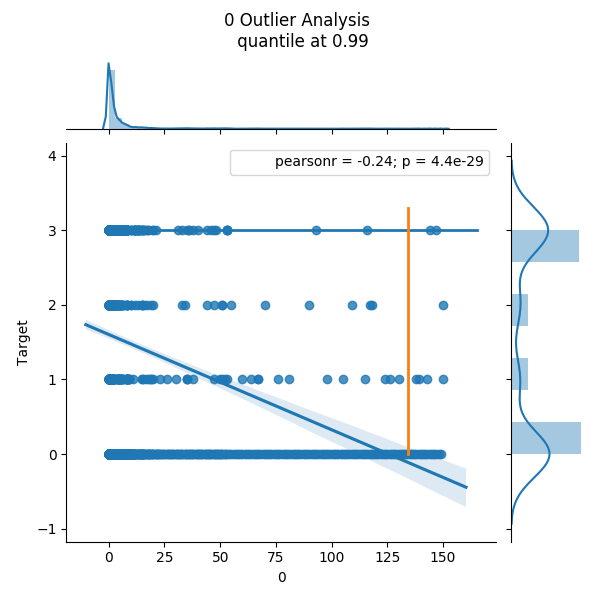
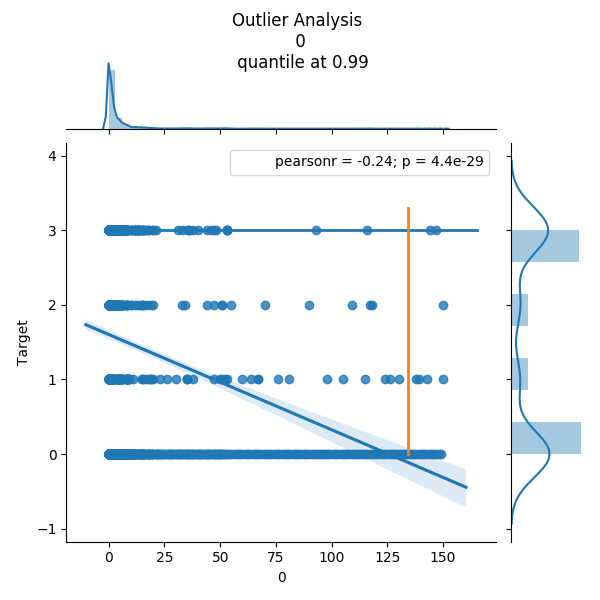
some vizu + click heatmap attempt + Total action per Activity --> Need to dry useless ActionPerAct columns

Changed region(s): [[0.36, 0.0, 0.63, 0.12]]

diff --git a/main.py b/main.py
@@ -43,17 +43,20 @@ EventCode : 4100 4110
 def div_zero(A, B) :
     return A/B if B else 0
 
-def get_insta_Data(instal_Data, test=False) :
+def get_insta_Data(instal_Data, Activities_list, test=False) :
     """
 
     """
     Assessments = []
     wincode = {'Mushroom Sorter (Assessment)':4100, 'Bird Measurer (Assessment)':4110, 'Cart Balancer (Assessment)':4100, 'Cauldron Filler (Assessment)':4100, 'Chest Sorter (Assessment)':4100}
     cols = {'installation_id':0, 'game_session':0, 'session_title':0, 'hour':0, 'total_spent':0, 0:0, 1:0, 2:0, 3:0, 'accum_accuracy':0, 'accum_accuracy_group':0,
-            'accum_correct':0, 'accum_incorrect':0, 'last_accuracyGroup': 0, 'Total_events':0, 'Total_Assessment':0, 'helped':0, 'timespentInstru':0, 'timespentTuto': 0, 'Total_Introskip':0,
-            'Total_Tuto_skipped':0, 'Incorr_feedback_Count':0, 'Incorr_feedback_Time': 0, 'Target':0, 'Replay_Click': 0}
+            'accum_correct':0, 'accum_incorrect':0, 'last_accuracyGroup': 0, 'Total_events':0, 'Total_Assessment':0, 'helped':0, 'timespentInstru':0, 'timespentTuto': 0, 'TotalQuit':0, 'Total_Introskip':0,
+            'Total_Tuto_skipped':0, 'Incorr_feedback_Count':0, 'Incorr_feedback_Time': 0, 'Replay_Click': 0, 'Scrub_A_Dub_avg':0, 'Target':0}
     Activity_count = {'Clip':0, 'Game':0, 'Activity':0, 'Assessment':0}
     AssessmentsTaken = {'Mushroom Sorter (Assessment)':0, 'Bird Measurer (Assessment)':0, 'Cart Balancer (Assessment)':0, 'Cauldron Filler (Assessment)':0, 'Chest Sorter (Assessment)':0}
+    TimePerRound = dict.fromkeys([('RTime_' + act[0:4]) for act in Activities_list], 0)
+    ActionPerActivity = dict.fromkeys(['Action_' + act[0:4] for act in Activities_list], 0)
+
     AccGroupCount = {0:0, 1:0, 2:0, 3:0}
 
     # number and accumulated corr/incorr attemps + Accum. and Accuracy Group Count
@@ -86,6 +89,10 @@ def get_insta_Data(instal_Data, test=False) :
     Incorr_feedback_Time = 0
     # Replay pressed (Perserverance)
     Replay_Click = 0
+    # TotalQuit
+    TotalQuit = 0
+    # Avg Scrub-A-Dub time spend per level
+    Scrub_a_dub_avg = 0
 
     for j, (gs_id, gs_info) in enumerate(instal_Data.groupby('game_session')):
         gs_type = gs_info['type'].iloc[0]
@@ -96,8 +103,10 @@ def get_insta_Data(instal_Data, test=False) :
             #1# Append all the data collected so far (excluding current Assessment, 以外 session_title)
             # Create the entry dictionary used for the row entry
             features = cols.copy()
+            features.update(TimePerRound)
             features.update(Activity_count)
             features.update(AssessmentsTaken)
+            features.update(ActionPerActivity)
             # Update the dictionary with value extracted from the current session
             features['installation_id'] = gs_info['installation_id'].iloc[0]
             features['game_session'] = game_session
@@ -116,13 +125,19 @@ def get_insta_Data(instal_Data, test=False) :
             features['helped'] = helped
             features['timespentInstru'] = timespentInstru
             features['timespentTuto'] = timespentTuto
+            features['TotalQuit'] = TotalQuit
             features['Total_Introskip'] = Total_Intro_skipped
             features['Total_Tuto_skipped'] = Total_Tuto_skipped
             features['Incorr_feedback_Count'] = Incorr_feedback_Count
             features['Incorr_feedback_Time'] = Incorr_feedback_Time
             features['Replay_Click'] = Replay_Click
+            features['Scrub_A_Dub_avg'] = Scrub_a_dub_avg
             for act in Activity_count :
                 features[act] += Activity_count[act]
+            for act_dicName in TimePerRound : # watch out the RTIME is already in the key
+                features[act_dicName] = TimePerRound[act_dicName]
+            for act_dicNamE in ActionPerActivity :
+                features[act_dicNamE] = ActionPerActivity[act_dicNamE]
             #### APEND IS AT THE END FOR THE TARGET VALUE
 
 
@@ -202,13 +217,30 @@ def get_insta_Data(instal_Data, test=False) :
         if 4095 in events_collection :
             Replay_Click += 1
         # Time spent per Actictivity
+        ####WIP####
+        # TotalQuit
+        if 2010 in events_collection :
+            TotalQuit += 1
+        # Useless Click
+        ####WIP####
 
         helped += 1 if 4090 in events_collection else 0
         total_event += gs_info.shape[0]
         total_spent += (pd.to_datetime(gs_info.iloc[-1, 2]) - pd.to_datetime(gs_info.iloc[0, 2])).seconds
         Activity_count[gs_type] += 1
 
-
+        # check end of level condition to check how much time was spent per level (MOST RECENT SESSION)(Scrub_A_Dub ONLY)
+        if 2050 in events_collection :
+            data1 = gs_info['event_data'][gs_info['event_code'] == 2050]
+            avg_duration = np.mean([json.loads(row)['duration'] for row in data1])
+            Scrub_a_dub_avg = avg_duration
+        # check end of round condition to check how much time was spent per round
+        if 2030 in events_collection :
+            data1 = gs_info['event_data'][gs_info['event_code'] == 2030] # one row is one round
+            avg_duration = np.mean([json.loads(row)['duration'] for row in data1])
+            TimePerRound['RTime_' + gs_title[0:4]] = avg_duration
+        # check for the number of actions per activity
+        ActionPerActivity['Action_' + gs_title[0:4]] = gs_info.shape[0] # only the most recent one
 
     if test :
         return Assessments[-1]
@@ -222,15 +254,16 @@ if __name__ == '__main__' :
     # print(reduced_train)
 
     #1# load the train data
-    train = pd.read_csv('data/train.csv', chunksize=4000000)
-    train = next(train)
+    train = pd.read_csv('data/train.csv')
+    # train = next(train)
+    Activities_list = train['title'].unique()
+
     for insta_Id, insta_info, in train.groupby('installation_id') :
-        Data = get_insta_Data(insta_info)
-        if Data :
+        Data = get_insta_Data(insta_info, Activities_list)
+        if Data : # some installation_id never took an Assessment
             for entry in Data :
                 reduced_train = reduced_train.append(entry, ignore_index=True)
-
-    reduced_train.to_csv('data/reduced_train.csv', index=False)
+    reduced_train.to_csv('data/reduced_trainFull.csv', index=False)
 
 
     # DONT NEED THE TRAINING DATA HERE

diff --git a/WIP/HeatMapClick.py b/WIP/HeatMapClick.py
@@ -1,0 +1,91 @@
+import pandas as pd
+import numpy as np
+import os
+import json
+import matplotlib.pyplot as plt
+import matplotlib.pylab as mpl
+import matplotlib
+import seaborn as sns
+from sklearn.preprocessing import normalize
+import matplotlib.cm as cm
+
+wincode = {'Mushroom Sorter (Assessment)':4100, 'Bird Measurer (Assessment)':4110, 'Cart Balancer (Assessment)':4100, 'Cauldron Filler (Assessment)':4100, 'Chest Sorter (Assessment)':4100}
+
+train = pd.read_csv('data/train.csv', chunksize=500000)
+train = next(train)
+label = pd.read_csv('data/train_labels.csv')
+specs = pd.read_csv('data/specs.csv')
+
+# Extract the labels that contains coordinates information
+labels = specs[specs["args"].str.contains('the game screen coordinates of the mouse click', na=False, regex=True)]
+labels_collection = labels['event_id'].unique()
+
+# split the df by insta_Id
+train_InstaID = train.groupby('installation_id')
+
+# Create a list to store the clicked heatmap
+ActivitiesTracked = ['Scrub-A-Dub', 'Chow Time', 'Sandcastle Builder (Activity)']
+ClickMap = dict.fromkeys(ActivitiesTracked, {0:[], 1:[], 2:[], 3:[]})
+
+for i, (insta_Id, played) in enumerate(train_InstaID) :
+    x_collec, y_collec = dict.fromkeys(ActivitiesTracked, []), dict.fromkeys(ActivitiesTracked, [])
+    for j, (gs_Id, gs_info) in enumerate(played.groupby('game_session')) :
+        gs_type = gs_info['type'].iloc[0]
+        gs_title = gs_info['title'].iloc[0]
+        game_session = gs_info['game_session'].iloc[0]
+
+        if gs_type == 'Assessment' :
+            # Collect Current Assessment Data for future entries
+            all_attempts = gs_info.query('event_code == {}'.format(wincode[gs_title]))
+            # then, check the numbers of wins and the number of losses
+            true_attempts = all_attempts['event_data'].str.contains('true').sum()
+            false_attempts = all_attempts['event_data'].str.contains('false').sum()
+            accuracy = true_attempts/(true_attempts+false_attempts) if (true_attempts+false_attempts) != 0 else 0
+            if accuracy == 0: Group = 0
+            elif accuracy == 1: Group = 3
+            elif accuracy == 0.5: Group = 2
+            else: Group = 1
+
+            if len(list(x_collec.values())[0]) > 50 :
+                for act in ActivitiesTracked :
+                    ClickMap[act][Group].append([x_collec[act], y_collec[act]])
+
+        for act in ActivitiesTracked :
+            if gs_title == act :
+                coordinates_events = gs_info['event_data'][gs_info['event_id'].isin(labels_collection)]
+                if not coordinates_events.empty :
+                    gs_x_collec, gs_y_collec = [], []
+                    for eve in coordinates_events :
+                        raw_data = json.loads(eve)
+                        gs_x_collec.append(float(raw_data['coordinates']['x']/raw_data['coordinates']['stage_width']))
+                        gs_y_collec.append(float(raw_data['coordinates']['y']/raw_data['coordinates']['stage_height']))
+                    x_collec[act] += gs_x_collec
+                    y_collec[act] += gs_y_collec
+
+
+# General HeatMap
+all_x = dict.fromkeys(ActivitiesTracked, {0:[], 1:[], 2:[], 3:[]})
+all_y = dict.fromkeys(ActivitiesTracked, {0:[], 1:[], 2:[], 3:[]})
+for act in ClickMap.keys() :
+    for i in range(4) :
+        for pointcollection in ClickMap[act][i] :
+            all_x[act][i] += pointcollection[0]
+            all_y[act][i] += pointcollection[1]
+
+for act in ClickMap.keys() :
+    for i in range(4) :
+        fig, ax = plt.subplots()
+        counts, xedges, yedges, im = plt.hist2d(all_x[act][i],all_y[act][i], bins=[np.arange(0,1, 0.005),np.arange(0,1, 0.005)],
+                                    norm=matplotlib.colors.Normalize(), density=True, cmap='RdBu_r')
+        # counts = normalize(counts)
+        # plt.imshow(counts, interpolation='nearest', cmap=cm.gist_rainbow)
+
+        ax.set_title('Activity {}\n Group {}'.format(act, i))
+        fig.savefig('vizu/ClickMap/Group{}.png'.format(i))
+        plt.show()
+
+
+
+# plt.show()
+
+# Split the train df by Accuracy Group using the train_label set

diff --git a/reducedData_analysis.py b/reducedData_analysis.py
@@ -39,6 +39,9 @@ def outlier_analysis(Pred, Data, include=None, trsh=0.99, _Save=False):
 
     for col in iterable :
         if (col != 'game_session') &  (col != 'session_title'):
+            if Data[col].isna().any() :
+                print('WARNING : {} column contains Nan or Infinite \n It will not be plotted'.format(col))
+                continue
             data = pd.concat((Pred, Data[col]), axis=1, sort=True)
             Pred_quant = Pred.quantile(trsh)
             Data_quant = Data[col].quantile(trsh)
@@ -49,7 +52,7 @@ def outlier_analysis(Pred, Data, include=None, trsh=0.99, _Save=False):
             s1.annotate(stats.pearsonr)
 
             plt.subplots_adjust(top=0.9)
-            s1.fig.suptitle('{} Outlier Analysis \n quantile at {}'.format(col, trsh))
+            s1.fig.suptitle('Outlier Analysis \n {} \n quantile at {}'.format(col, trsh))
 
             pear_r = stats.pearsonr(data.iloc[:,0], data.iloc[:,1])[0]
             if pear_r > 0.5 :
@@ -62,12 +65,13 @@ def outlier_analysis(Pred, Data, include=None, trsh=0.99, _Save=False):
                 fig = plt.gcf()
                 fig.savefig('reduced_vizu/outlier/{}_outlierAnalysis.png'.format(col))
 
-        plt.show()
+        # plt.show()
 
     return indexes
 
 
 reduced = pd.read_csv('data/reduced_train.csv')
+
 Target = reduced['Target']
 reduced = reduced.drop(['Target'], axis=1)
 reduced['total_spent'] = np.log1p(reduced['total_spent'])
@@ -78,34 +82,4 @@ reduced = pd.get_dummies(reduced, prefix=['Type'], columns=['session_title'])
 # sns.distplot(reduced['accum_accuracy'])
 # plt.show()
 
-
-# corr_heatmap(Target, reduced)
-# outlier_analysis(Target, reduced, _Save=True)
-
-param = {'n_estimators':2000,
-         'learning_rate': 0.01,
-         'metric': 'multiclass',
-         'objective': 'multiclass',
-         'max_depth': 15,
-         'num_classes': 4,
-         'feature_fraction': 0.85,
-         'subsample': 0.85,
-         'verbose': 1000,
-         'early_stopping_rounds': 100, 'eval_metric': 'cappa'
-        }
-
-y = data['accuracy_group']
-n_fold = 5
-#folds = StratifiedKFold(n_splits=n_fold)
-#folds = KFold(n_splits=n_fold)
-folds = RepeatedStratifiedKFold(n_splits=n_fold)
-folds = GroupKFold(n_splits=n_fold)
-cols_to_drop = ['game_session']
-cat_cols = ['world']
-mt = MainTransformer(create_interactions=False)
-ct = CategoricalTransformer(drop_original=True, cat_cols=cat_cols)
-ft = FeatureTransformer()
-transformers = {'ft': ft, 'ct': ct}
-lgb_model = ClassifierModel(model_wrapper=LGBWrapper())
-lgb_model.fit(X=data, y=y, folds=folds, params=param, preprocesser=mt, transformers=transformers,
-                    eval_metric='cappa', cols_to_drop=cols_to_drop)
+outlier_analysis(Target, reduced, _Save=True)

diff --git a/ModelRun.py b/ModelRun.py
@@ -1000,22 +1000,25 @@ class FeatureTransformer(BaseEstimator, TransformerMixin):
 
 
 
-reduced = pd.read_csv('data/reduced_train.csv')
+reduced = pd.read_csv('data/reduced_trainFull.csv')
+print(reduced.shape)
 Target = reduced['Target']
 reduced = reduced.drop(['Target'], axis=1)
 reduced['total_spent'] = np.log1p(reduced['total_spent'])
 reduced['accum_accuracy'] = np.log1p(reduced['accum_accuracy'])
 reduced = pd.get_dummies(reduced, prefix=['Type'], columns=['session_title'])
 
+for col in reduced.columns :
+    if len(reduced[col].value_counts()) == 1 :
+        reduced = reduced.drop(col, axis=1)
 
-
-params = {'n_estimators':2000,
+params = {'n_estimators':8000,
             'boosting_type': 'gbdt',
             'objective': 'regression',
-            'metric': 'rmse',
+            'metric': 'mae',
             'subsample': 0.75,
             'subsample_freq': 1,
-            'learning_rate': 0.04,
+            'learning_rate': 0.05,
             'feature_fraction': 0.9,
          'max_depth': 15,
             'lambda_l1': 1,
@@ -1040,5 +1043,10 @@ regressor_model1.fit(X=reduced, y=y, folds=folds, params=params, preprocesser=mt
 regressor_model1.plot_feature_importance()
 regressor_model1.get_top_features()
 regressor_model1.plot_metric()
-
 plt.show()
+
+"""
+[487]	train's l1: 0.875042	train's cappa: 0.609855	valid's l1: 0.943896	valid's cappa: 0.524321
+CV mean score on train: 0.6003 +/- 0.0125 std.
+CV mean score on valid: 0.5203 +/- 0.0037 std.
+"""

diff --git a/WIP/Workplace.py b/WIP/Workplace.py
@@ -1,0 +1,17 @@
+import pandas as pd
+import numpy as np
+import matplotlib.pyplot as plt
+
+
+start_event = ('abc5811c','4b5efe37','65abac75','0086365d','87d743c1','fd20ea40','f93fc684','cc5087a3','5be391b5','7040c096')
+
+train = pd.read_csv('data/train.csv', chunksize=10000)
+train = next(train)
+
+
+Insta_Id = train.groupby('installation_id')
+
+for Id, Insta_Id in Insta_Id :
+    for gs_id, gs_info in Insta_Id.groupby('game_session') :
+        for row in gs_info['event_data'] :
+            print(row)
